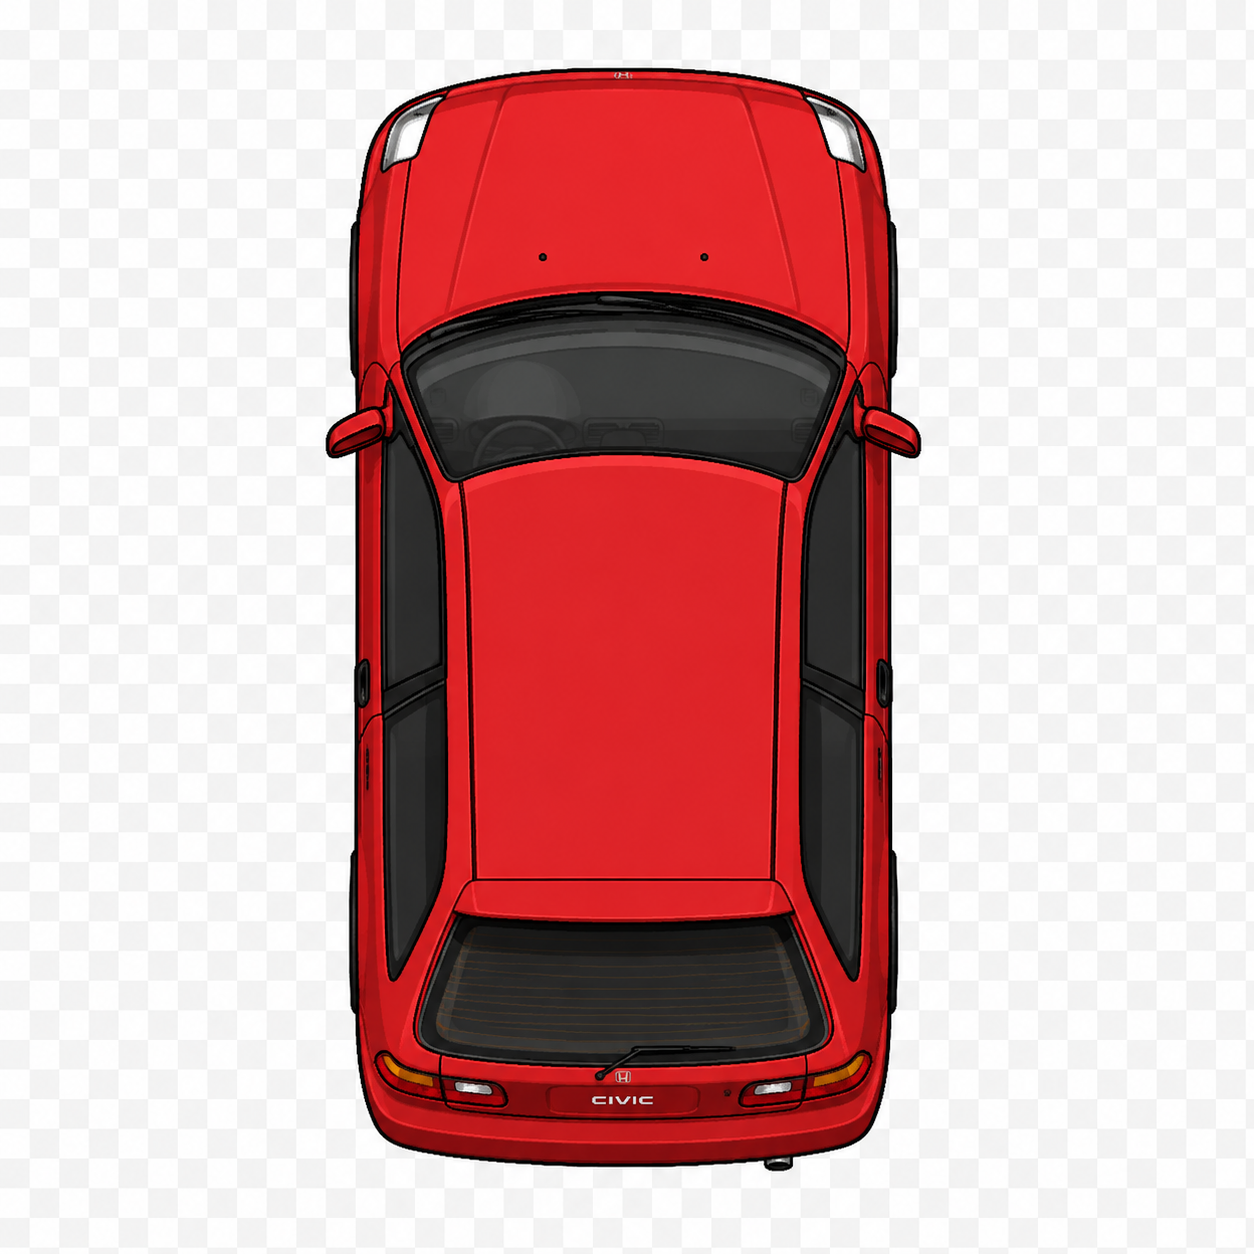
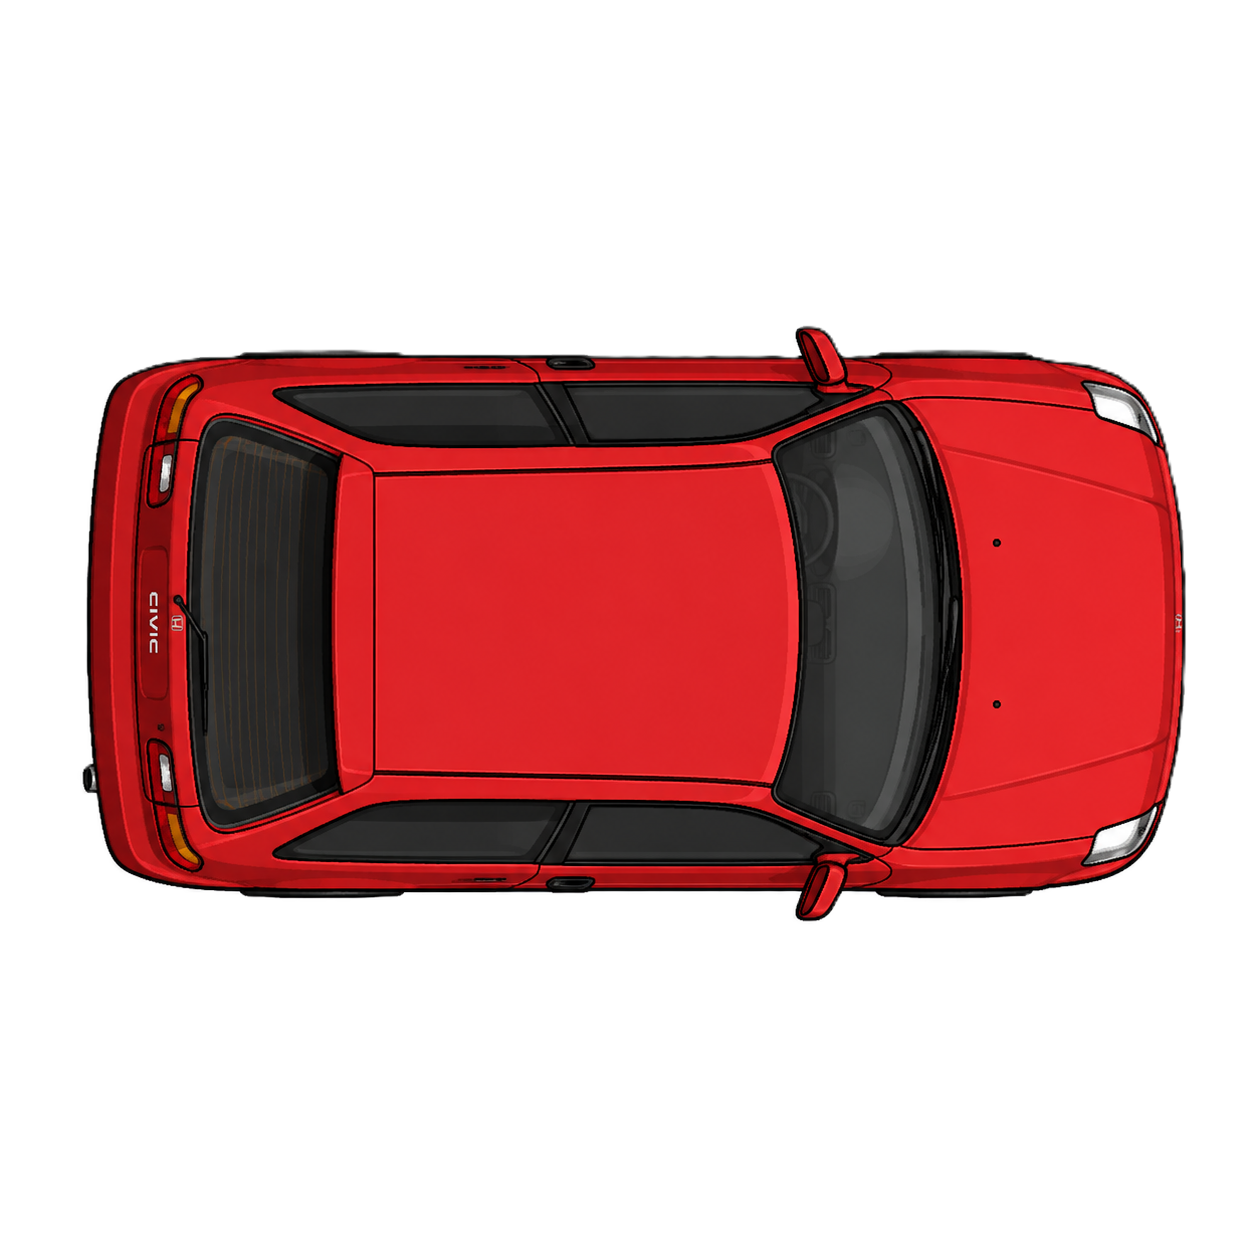
Mechanika jazdy v1.1. Funkcja gas, hamulec, swobodne toczenie się, dodanie skręcania lewo prawo ze stałym kątem.

diff --git a/nurburacing/client/src/main.ts b/nurburacing/client/src/main.ts
@@ -48,14 +48,22 @@ async function main() {
 	camera.zoom = 1;
 	camera.followPlayer(player);
 	
+	let gas: boolean;
+	let brake: boolean;
+	let steeringAngle: number;
+	
 	app.ticker.add(() => {
+		gas = false;
+		brake = false;
+		steeringAngle = 0;
 
 		a = keyboard.readInput();
-		//if(a['d']) { player.drive(false, false, 0); }
-		//if(a['a']) { player.drive(false, false, 0); }
-		if(a['w']) { player.drive(true, false, 0); }
-		else if(a['s']) { player.drive(false, true, 0); }
-		else { player.drive(false, false, 0); }
+		if(a['d']) { steeringAngle = 0.01; }
+		if(a['a']) { steeringAngle = -0.01; }
+		if(a['w']) { gas = true; }
+		if(a['s']) { brake = true; }
+		
+		player.drive(gas, brake, steeringAngle);
 		
 		player.update();
 		camera.update();

diff --git a/nurburacing/client/src/Player.ts b/nurburacing/client/src/Player.ts
@@ -23,8 +23,8 @@ export class Player {
 		this.position = new Point(x_init, y_init);
 		this.rotation = 0;
 		this.carSprite = new Sprite(carTexture);
-		this.carSprite.width = 100;
-		this.carSprite.height = 100;
+		this.carSprite.width = 200;
+		this.carSprite.height = 200;
 		this.carSprite.anchor.set(0.5,0.5);
 		this.carSprite.position.x = this.position.x;
 		this.carSprite.position.y = this.position.y;
@@ -66,8 +66,10 @@ export class Player {
 			else { this.speed = 0; }
 		}
 		
+		this.rotation += steeringAngle;
+		
 		this.x_speed = this.speed * Math.cos(this.rotation);
-		this.y_speed = this.y_speed * Math.sin(this.rotation);
+		this.y_speed = this.speed * Math.sin(this.rotation);
 		this.position.x += this.x_speed;
 		this.position.y += this.y_speed;
 	}
@@ -75,5 +77,7 @@ export class Player {
 	update(): void {
 		this.carSprite.position.x = this.position.x;
 		this.carSprite.position.y = this.position.y;
+		this.carSprite.rotation = this.rotation;
+		console.log("R: " + this.rotation + " X: " + this.x_speed + " Y: " + this.y_speed);
 	}
 }